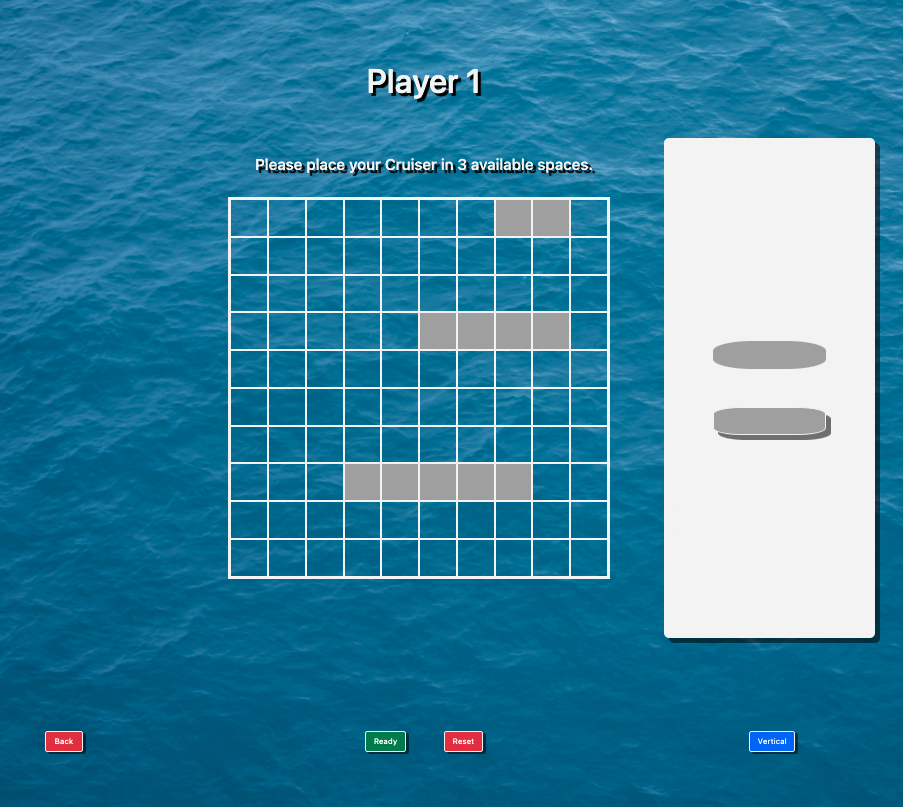
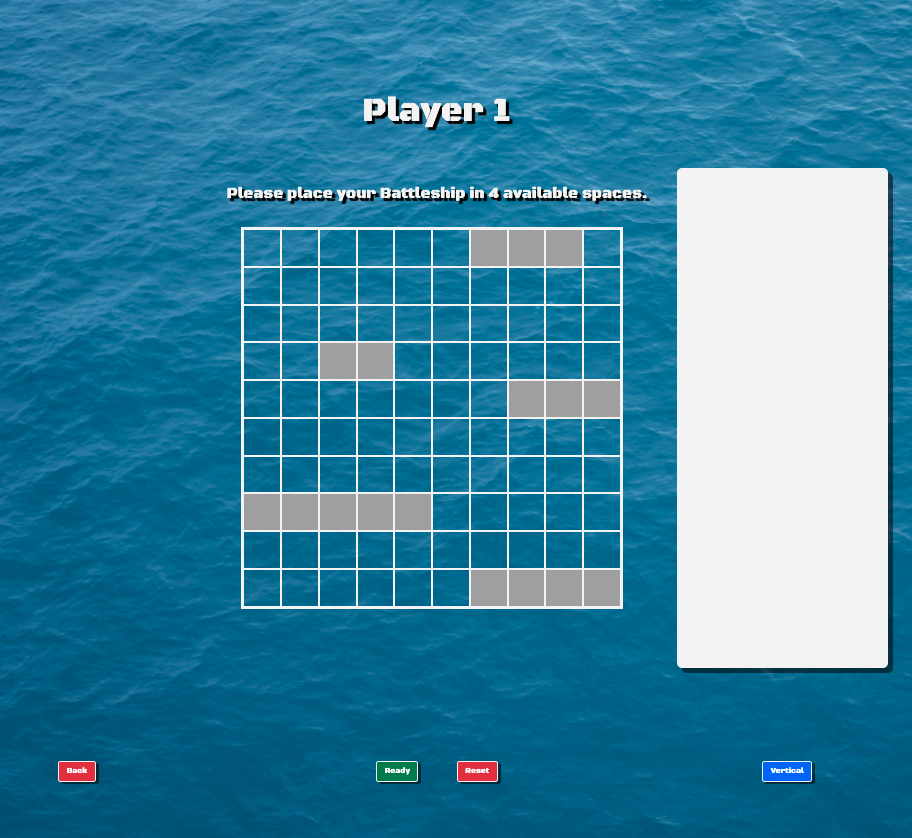
update fonts, readme photos and attributions

diff --git a/index.html b/index.html
@@ -7,6 +7,9 @@
   <link id="favicon" rel="icon" href="./assets/favicon.png" type="image/png" sizes="32x32"
   >
   <link href="https://cdn.jsdelivr.net/npm/bootstrap@5.1.3/dist/css/bootstrap.min.css" rel="stylesheet" integrity="sha384-1BmE4kWBq78iYhFldvKuhfTAU6auU8tT94WrHftjDbrCEXSU1oBoqyl2QvZ6jIW3" crossorigin="anonymous">
+  <link rel="preconnect" href="https://fonts.googleapis.com">
+  <link rel="preconnect" href="https://fonts.gstatic.com" crossorigin>
+  <link href="https://fonts.googleapis.com/css2?family=Black+Ops+One&display=swap" rel="stylesheet">
   <link rel="stylesheet" href="./css/style.css">
   <link rel="stylesheet" href="https://cdnjs.cloudflare.com/ajax/libs/animate.css/4.1.1/animate.min.css"/>
   <script defer src="./js/app.js"></script>

diff --git a/css/style.css b/css/style.css
@@ -22,8 +22,7 @@ body {
   background: url(/assets/water-background.png);
   background-size: cover;
 /* Use a system font, if none are available use an available sans-sarif   font */
-font-family: system-ui, -apple-system, BlinkMacSystemFont, "Segoe UI",
-        Roboto, Oxygen-Sans, Ubuntu, Cantarell, "Helvetica Neue", sans-serif;
+font-family: 'Black Ops One', cursive;
 color: whitesmoke;
 margin: 0;
 height: 100vh;

diff --git a/readme.md b/readme.md
@@ -1,7 +1,7 @@
 # Battleship
-![LoadPage](/assets/load-state.png)
-![ShipPlacement](/assets/Ship-Placement.png)
-![Combat](/assets/Gameplay.png)
+![LoadPage](/assets/load-screen.png)
+![ShipPlacement](/assets/ship-placement.png)
+![Combat](/assets/game-play.png)
 
 [Play the Game](https://bootsstribling.github.io/Battleship/)
 
@@ -22,6 +22,7 @@ I started this game with the intention of diving into a very difficult game for 
 5. [Battleship Favicon](https://www.vectorstock.com/royalty-free-vector/battleship-team-logo-vector-38208431)
 6. [Water Background](https://unsplash.com/photos/qEswHvOmi1c)
 7. [Battleship Photo](https://www.wowsbuilds.com/ships/alaska)
+8. [BlackOpsOneFont](https://fonts.google.com/specimen/Black+Ops+One#standard-styles)
 
 ### Original WireFrame: 
 
